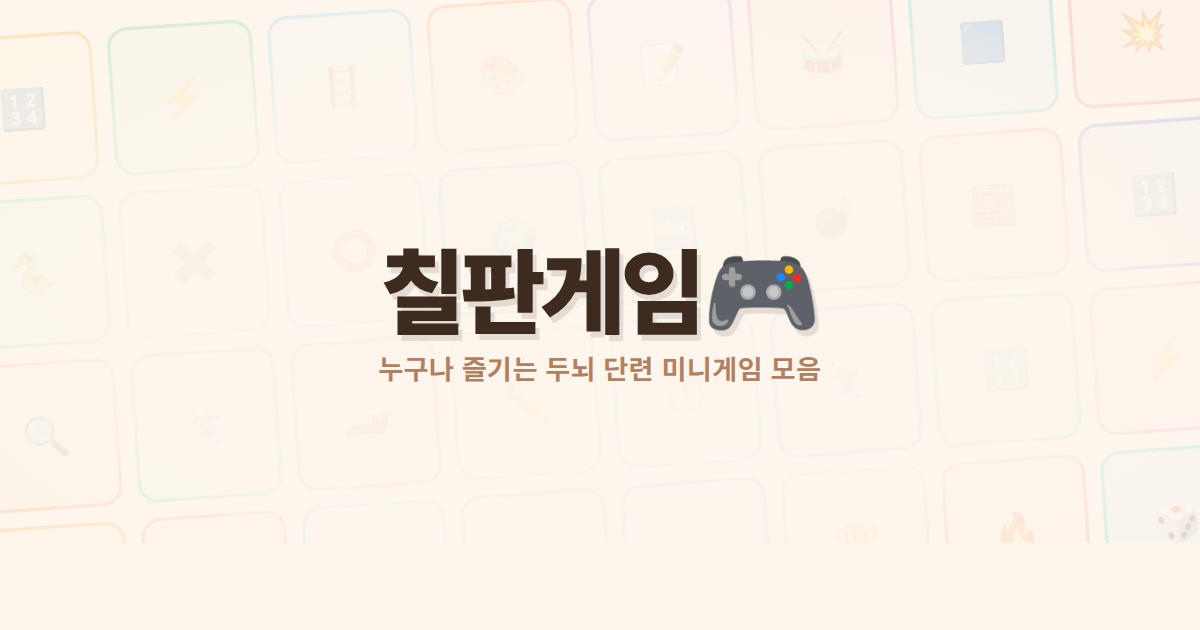
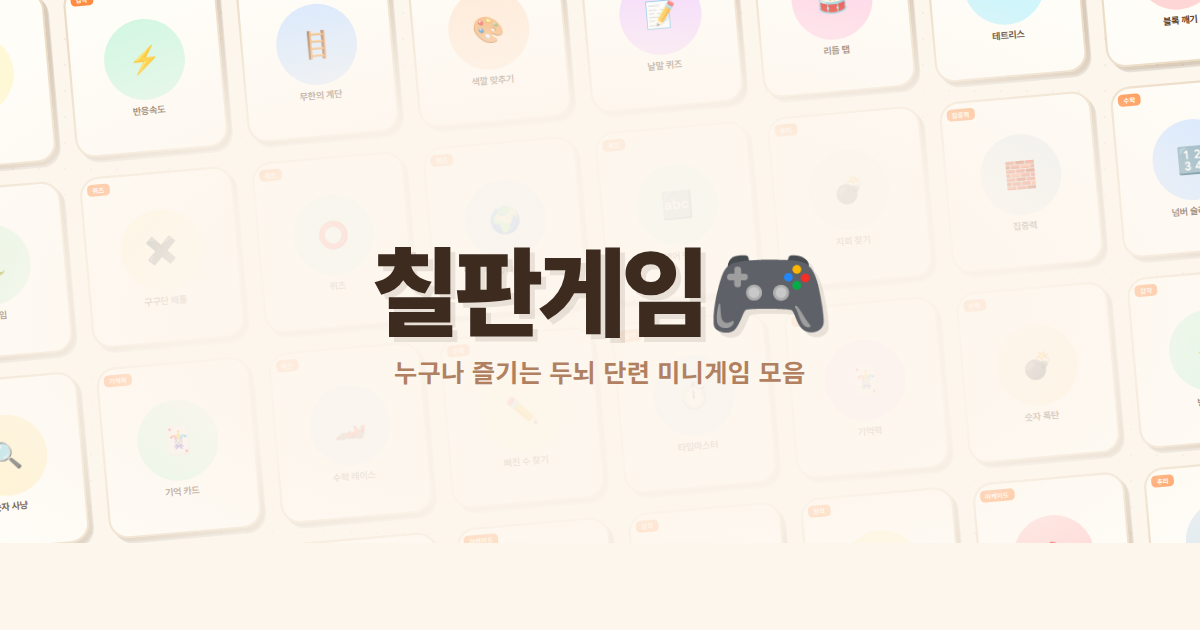
Fix OG image to match actual game card design
Cards now use white/cream background (#fffdf8), warm tan borders,
offset shadows, colored pastel icon circles, and card labels —
matching the real game card UI instead of the old dark/subtle style.

diff --git a/og-gen.html b/og-gen.html
@@ -1,0 +1,351 @@
+<!DOCTYPE html>
+<html>
+<head>
+<meta charset="utf-8">
+<style>
+  @font-face {
+    font-family: 'Pretendard';
+    src: url('/usr/share/fonts/pretendard/Pretendard-Bold.ttf') format('truetype');
+    font-weight: 700;
+  }
+  @font-face {
+    font-family: 'Pretendard';
+    src: url('/usr/share/fonts/pretendard/Pretendard-Black.ttf') format('truetype');
+    font-weight: 900;
+  }
+  * { margin: 0; padding: 0; box-sizing: border-box; }
+  body {
+    width: 1200px;
+    height: 630px;
+    overflow: hidden;
+    background: #fdf6ed;
+    position: relative;
+    font-family: 'Pretendard', sans-serif;
+  }
+
+  /* Dot pattern background */
+  body::before {
+    content: '';
+    position: absolute;
+    inset: 0;
+    background-image: radial-gradient(circle, rgba(180,130,80,0.10) 1.5px, transparent 1.5px);
+    background-size: 26px 26px;
+    pointer-events: none;
+    z-index: 0;
+  }
+
+  /* Background card grid — slightly rotated */
+  .bg-cards {
+    position: absolute;
+    inset: -60px;
+    display: grid;
+    grid-template-columns: repeat(8, 1fr);
+    grid-template-rows: repeat(4, 1fr);
+    gap: 18px;
+    padding: 30px;
+    transform: rotate(-5deg) scale(1.08);
+    z-index: 1;
+  }
+
+  /* Real card design: cream bg, warm border, shadow */
+  .bg-card {
+    background: #fffdf8;
+    border-radius: 18px;
+    border: 2px solid rgba(200,160,110,0.35);
+    box-shadow: 3px 3px 0 rgba(180,130,80,0.18), 4px 5px 0 rgba(0,0,0,0.10);
+    display: flex;
+    flex-direction: column;
+    align-items: center;
+    justify-content: center;
+    gap: 6px;
+    padding: 8px 4px 6px;
+    overflow: hidden;
+  }
+
+  /* Colored circle icon area */
+  .bg-card .icon-circle {
+    width: 58%;
+    aspect-ratio: 1;
+    border-radius: 50%;
+    display: flex;
+    align-items: center;
+    justify-content: center;
+    font-size: 1.5rem;
+    flex-shrink: 0;
+  }
+
+  /* Card label */
+  .bg-card .card-label {
+    font-family: 'Pretendard', sans-serif;
+    font-weight: 700;
+    font-size: 0.55rem;
+    color: #5a3e2b;
+    letter-spacing: -0.01em;
+    text-align: center;
+    line-height: 1.1;
+  }
+
+  /* Tag chip (top-left on card) */
+  .bg-card .card-tag-chip {
+    position: absolute;
+    top: 5px;
+    left: 5px;
+    background: #ff8c42;
+    color: #fff;
+    font-family: 'Pretendard', sans-serif;
+    font-weight: 700;
+    font-size: 0.38rem;
+    padding: 2px 5px;
+    border-radius: 4px;
+    letter-spacing: 0.04em;
+  }
+
+  /* Center overlay */
+  .center {
+    position: absolute;
+    inset: 0;
+    display: flex;
+    flex-direction: column;
+    align-items: center;
+    justify-content: center;
+    gap: 14px;
+    background: radial-gradient(ellipse 65% 58% at 50% 50%, rgba(253,246,237,0.91) 55%, rgba(253,246,237,0.60) 75%, transparent 100%);
+    z-index: 10;
+  }
+
+  .brand {
+    font-family: 'Pretendard', sans-serif;
+    font-weight: 900;
+    font-size: 100px;
+    color: #3d2b1f;
+    letter-spacing: -0.03em;
+    line-height: 1;
+    text-shadow: 5px 5px 0 rgba(61,43,31,0.10);
+  }
+  .brand em {
+    color: #e8630a;
+    font-style: normal;
+  }
+  .sub {
+    font-family: 'Pretendard', sans-serif;
+    font-weight: 700;
+    font-size: 26px;
+    color: #b08060;
+    letter-spacing: 0.04em;
+  }
+
+  /* Bottom badge row */
+  .badges {
+    position: absolute;
+    bottom: 38px;
+    left: 50%;
+    transform: translateX(-50%);
+    display: flex;
+    gap: 12px;
+    align-items: center;
+    z-index: 11;
+  }
+  .badge {
+    background: #fffdf8;
+    border: 2px solid rgba(180,130,80,0.30);
+    border-radius: 999px;
+    padding: 8px 22px;
+    font-size: 18px;
+    font-weight: 700;
+    color: #3d2b1f;
+    box-shadow: 2px 3px 0 rgba(180,130,80,0.18), 0 4px 12px rgba(0,0,0,0.07);
+    white-space: nowrap;
+  }
+</style>
+</head>
+<body>
+
+<!-- Background decorative card grid -->
+<div class="bg-cards">
+
+  <!-- Row 1 -->
+  <div class="bg-card" style="position:relative;">
+    <span class="card-tag-chip">수학</span>
+    <div class="icon-circle" style="background:#fff8d6;">🔢</div>
+    <span class="card-label">숫자 팡팡</span>
+  </div>
+  <div class="bg-card" style="position:relative;">
+    <span class="card-tag-chip">감각</span>
+    <div class="icon-circle" style="background:#d4f7e4;">⚡</div>
+    <span class="card-label">반응속도</span>
+  </div>
+  <div class="bg-card" style="position:relative;">
+    <span class="card-tag-chip">아케이드</span>
+    <div class="icon-circle" style="background:#d6e8ff;">🪜</div>
+    <span class="card-label">무한의 계단</span>
+  </div>
+  <div class="bg-card" style="position:relative;">
+    <span class="card-tag-chip">집중력</span>
+    <div class="icon-circle" style="background:#ffe8d4;">🎨</div>
+    <span class="card-label">색깔 맞추기</span>
+  </div>
+  <div class="bg-card" style="position:relative;">
+    <span class="card-tag-chip">언어</span>
+    <div class="icon-circle" style="background:#f3d6ff;">📝</div>
+    <span class="card-label">낱말 퀴즈</span>
+  </div>
+  <div class="bg-card" style="position:relative;">
+    <span class="card-tag-chip">음악</span>
+    <div class="icon-circle" style="background:#ffd6e8;">🥁</div>
+    <span class="card-label">리듬 탭</span>
+  </div>
+  <div class="bg-card" style="position:relative;">
+    <span class="card-tag-chip">전략</span>
+    <div class="icon-circle" style="background:#d0f5fb;">🟦</div>
+    <span class="card-label">테트리스</span>
+  </div>
+  <div class="bg-card" style="position:relative;">
+    <span class="card-tag-chip">아케이드</span>
+    <div class="icon-circle" style="background:#ffd6d6;">💥</div>
+    <span class="card-label">블록 깨기</span>
+  </div>
+
+  <!-- Row 2 -->
+  <div class="bg-card" style="position:relative;">
+    <span class="card-tag-chip">아케이드</span>
+    <div class="icon-circle" style="background:#dff7e4;">🐍</div>
+    <span class="card-label">뱀 게임</span>
+  </div>
+  <div class="bg-card" style="position:relative;">
+    <span class="card-tag-chip">퀴즈</span>
+    <div class="icon-circle" style="background:#fff8d6;">✖</div>
+    <span class="card-label">구구단 배틀</span>
+  </div>
+  <div class="bg-card" style="position:relative;">
+    <span class="card-tag-chip">퀴즈</span>
+    <div class="icon-circle" style="background:#d0f5fb;">⭕</div>
+    <span class="card-label">퀴즈</span>
+  </div>
+  <div class="bg-card" style="position:relative;">
+    <span class="card-tag-chip">퀴즈</span>
+    <div class="icon-circle" style="background:#dde4ff;">🌍</div>
+    <span class="card-label">국기 퀴즈</span>
+  </div>
+  <div class="bg-card" style="position:relative;">
+    <span class="card-tag-chip">퀴즈</span>
+    <div class="icon-circle" style="background:#d0f5ed;">🔤</div>
+    <span class="card-label">영어 단어</span>
+  </div>
+  <div class="bg-card" style="position:relative;">
+    <span class="card-tag-chip">추리</span>
+    <div class="icon-circle" style="background:#e4ecf0;">💣</div>
+    <span class="card-label">지뢰 찾기</span>
+  </div>
+  <div class="bg-card" style="position:relative;">
+    <span class="card-tag-chip">집중력</span>
+    <div class="icon-circle" style="background:#e4ecf0;">🧱</div>
+    <span class="card-label">집중력</span>
+  </div>
+  <div class="bg-card" style="position:relative;">
+    <span class="card-tag-chip">수학</span>
+    <div class="icon-circle" style="background:#d6e8ff;">🔢</div>
+    <span class="card-label">넘버 슬라이드</span>
+  </div>
+
+  <!-- Row 3 -->
+  <div class="bg-card" style="position:relative;">
+    <span class="card-tag-chip">집중력</span>
+    <div class="icon-circle" style="background:#fff3d0;">🔍</div>
+    <span class="card-label">숫자 사냥</span>
+  </div>
+  <div class="bg-card" style="position:relative;">
+    <span class="card-tag-chip">기억력</span>
+    <div class="icon-circle" style="background:#d4f7e4;">🃏</div>
+    <span class="card-label">기억 카드</span>
+  </div>
+  <div class="bg-card" style="position:relative;">
+    <span class="card-tag-chip">계산</span>
+    <div class="icon-circle" style="background:#d6eaff;">🏎</div>
+    <span class="card-label">수학 레이스</span>
+  </div>
+  <div class="bg-card" style="position:relative;">
+    <span class="card-tag-chip">수학</span>
+    <div class="icon-circle" style="background:#fff8d6;">✏</div>
+    <span class="card-label">빠진 수 찾기</span>
+  </div>
+  <div class="bg-card" style="position:relative;">
+    <span class="card-tag-chip">감각</span>
+    <div class="icon-circle" style="background:#d6eaff;">⏱</div>
+    <span class="card-label">타임마스터</span>
+  </div>
+  <div class="bg-card" style="position:relative;">
+    <span class="card-tag-chip">기억력</span>
+    <div class="icon-circle" style="background:#f3d6ff;">🃏</div>
+    <span class="card-label">기억력</span>
+  </div>
+  <div class="bg-card" style="position:relative;">
+    <span class="card-tag-chip">수학</span>
+    <div class="icon-circle" style="background:#ffefd0;">💣</div>
+    <span class="card-label">숫자 폭탄</span>
+  </div>
+  <div class="bg-card" style="position:relative;">
+    <span class="card-tag-chip">감각</span>
+    <div class="icon-circle" style="background:#d4f7e4;">⚡</div>
+    <span class="card-label">반응속도</span>
+  </div>
+
+  <!-- Row 4 -->
+  <div class="bg-card" style="position:relative;">
+    <span class="card-tag-chip">수학</span>
+    <div class="icon-circle" style="background:#fff8d6;">💫</div>
+    <span class="card-label">수학</span>
+  </div>
+  <div class="bg-card" style="position:relative;">
+    <span class="card-tag-chip">집중력</span>
+    <div class="icon-circle" style="background:#ffe8d4;">🎯</div>
+    <span class="card-label">집중력</span>
+  </div>
+  <div class="bg-card" style="position:relative;">
+    <span class="card-tag-chip">전략</span>
+    <div class="icon-circle" style="background:#d0f5fb;">🧩</div>
+    <span class="card-label">퍼즐</span>
+  </div>
+  <div class="bg-card" style="position:relative;">
+    <span class="card-tag-chip">아케이드</span>
+    <div class="icon-circle" style="background:#d4f7e4;">🎮</div>
+    <span class="card-label">게임</span>
+  </div>
+  <div class="bg-card" style="position:relative;">
+    <span class="card-tag-chip">감각</span>
+    <div class="icon-circle" style="background:#dde4ff;">⭐</div>
+    <span class="card-label">도전</span>
+  </div>
+  <div class="bg-card" style="position:relative;">
+    <span class="card-tag-chip">창의</span>
+    <div class="icon-circle" style="background:#fff8d6;">🏆</div>
+    <span class="card-label">빨리 그리기</span>
+  </div>
+  <div class="bg-card" style="position:relative;">
+    <span class="card-tag-chip">아케이드</span>
+    <div class="icon-circle" style="background:#ffd6d6;">🔥</div>
+    <span class="card-label">아케이드</span>
+  </div>
+  <div class="bg-card" style="position:relative;">
+    <span class="card-tag-chip">추리</span>
+    <div class="icon-circle" style="background:#e4ecf0;">🎲</div>
+    <span class="card-label">추리</span>
+  </div>
+</div>
+
+<!-- Center content -->
+<div class="center">
+  <div class="brand">칠판게임<em>🎮</em></div>
+  <div class="sub">누구나 즐기는 두뇌 단련 미니게임 모음</div>
+</div>
+
+<!-- Bottom badges -->
+<div class="badges">
+  <div class="badge">🔢 수학</div>
+  <div class="badge">🧠 기억력</div>
+  <div class="badge">⚡ 반응속도</div>
+  <div class="badge">🎨 집중력</div>
+  <div class="badge">🏆 멀티플레이</div>
+</div>
+
+</body>
+</html>
